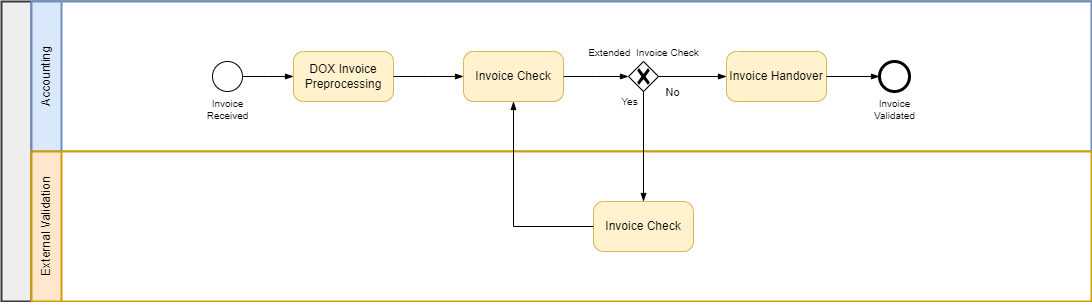
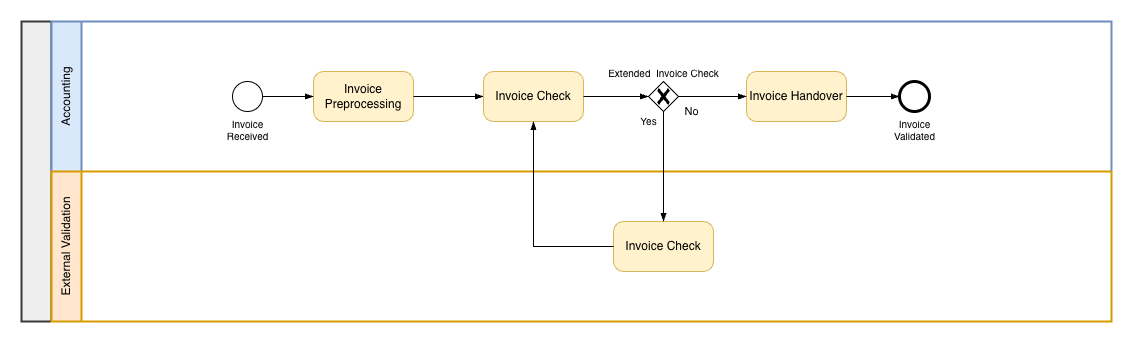
switch to new name SAP Document AI in diagrams and remove mention of deprecated OpenText

diff --git a/docs/tutorial/3-integrate/2-Outbound.md b/docs/tutorial/3-integrate/2-Outbound.md
@@ -1,13 +1,9 @@
 ## Outbound
 
-After successful validation of the invoice, this scenario could be connected upstream of **SAP Central Invoice Management (CIM)** or **OpenText Vendor Invoice Management (VIM)** or any other comparable solution to complete the payment process afterwards.
+After successful validation of the invoice, this scenario could be connected upstream of **SAP Central Invoice Management (CIM)** to complete the payment process afterwards.
 
-To simulate the upstream you could download a PDF snapshot file (via the `Download Snapshot` button) of the validated invoice an transfer it to the dedicated file upload directory which could be accessed by **SAP Central Invoice Management (CIM)** or **OpenText Vendor Invoice Management (VIM)** or other comparable solutions.
+To simulate the upstream you could download a PDF snapshot file (via the `Download Snapshot` button) of the validated invoice an transfer it to the dedicated file upload directory which could be accessed by **SAP Central Invoice Management (CIM)**.
 
 In the current source code the `Accept` and `Reject` buttons are _only_ triggering notifications - in a productive scenario this behaviour has to be enhanced to trigger a real upstream scenario.
 
-See also:
-
-- [SAP Central Invoice Management](https://help.sap.com/docs/CENTRAL_INVOICE_MANAGEMENT/76e9f80544ca4990b6d25b79a1d0602f/43495ee9483a42b1a7ce74001ea0847b.html)
-
-- [OpenText Vendor Invoice Management](https://www.opentext.com/products/vendor-invoice-management-for-sap-solutions)
+See also: [SAP Ariba Central Invoice Management](https://www.sap.com/products/spend-management/centralized-invoice-processing-software.html)

diff --git a/docs/tutorial/1-intro/1-Scenario.md b/docs/tutorial/1-intro/1-Scenario.md
@@ -6,7 +6,7 @@ This part offers a comprehensive overview of the invoice validation scenario, al
 
 For multiple invoice types (e.g. construction invoices) the invoice validation or invoice check is a complex process which could often need additional domain expertise from different personas - for example external domain experts. The provided **Invoice Validation** sample scenario on **SAP Business Technology Platform (BTP)** is designed to exactly fulfil all these needs.
 
-The application enables to do extensive and complex invoice validation outside **SAP S/4HANA Cloud (Private Edition / Public Edition)** on **SAP Business Technology Platform (BTP)** for experienced domain experts in a proper and reliable workflow. It could replace the current process which is manual, error prone and not transparent to all stakeholders, like the accounting team members responsible for payments and all external validators. Due to the **SAP Document AI** Service assistance behind the scenes is in place, the validation work is further simplified. Furthermore, this scenario could be connected upstream of **SAP Ariba Central Invoice Management** or **OpenText Vendor Invoice Management (VIM)** or other comparable solutions to complete the payment process afterwards.
+The application enables to do extensive and complex invoice validation outside **SAP S/4HANA Cloud (Private Edition / Public Edition)** on **SAP Business Technology Platform (BTP)** for experienced domain experts in a proper and reliable workflow. It could replace the current process which is manual, error prone and not transparent to all stakeholders, like the accounting team members responsible for payments and all external validators. Due to the **SAP Document AI** Service assistance behind the scenes is in place, the validation work is further simplified. Furthermore, this scenario could be connected upstream of **SAP Ariba Central Invoice Management** to complete the payment process afterwards.
 
 ## Process Flow
 

diff --git a/docs/tutorial/1-intro/3-Interaction.md b/docs/tutorial/1-intro/3-Interaction.md
@@ -2,7 +2,7 @@
 
 This section provides an in-depth explanation of how the **SAP Cloud Application Programming Model (CAP)** backend interacts with the different services on the **SAP Business Technology Platform (SAP BTP)**, focusing especially on the **SAP Document AI** Service.
 
-[<img src="images\Solution_Diagram_interaction_new_cache.drawio.png" width="1200"/>](images/Solution_Diagram_interaction_new_cache.drawio.png)
+[<img src="images\Solution_Diagram_Interaction.png" width="1200"/>](images/Solution_Diagram_Interaction.png)
 _**Picture:** Sequence Interactions of Invoice Validation_
 
 As illustrated in the picture above, the application's core purpose is to validate invoices received via e-mail or physical mail - scanned into a PDF format file. The invoices are stored via the **BTP Object Store** Service in an arbitrary object store, e.g. **Amazon S3 Object Store**, ensuring that a persistent version of each invoice is available.